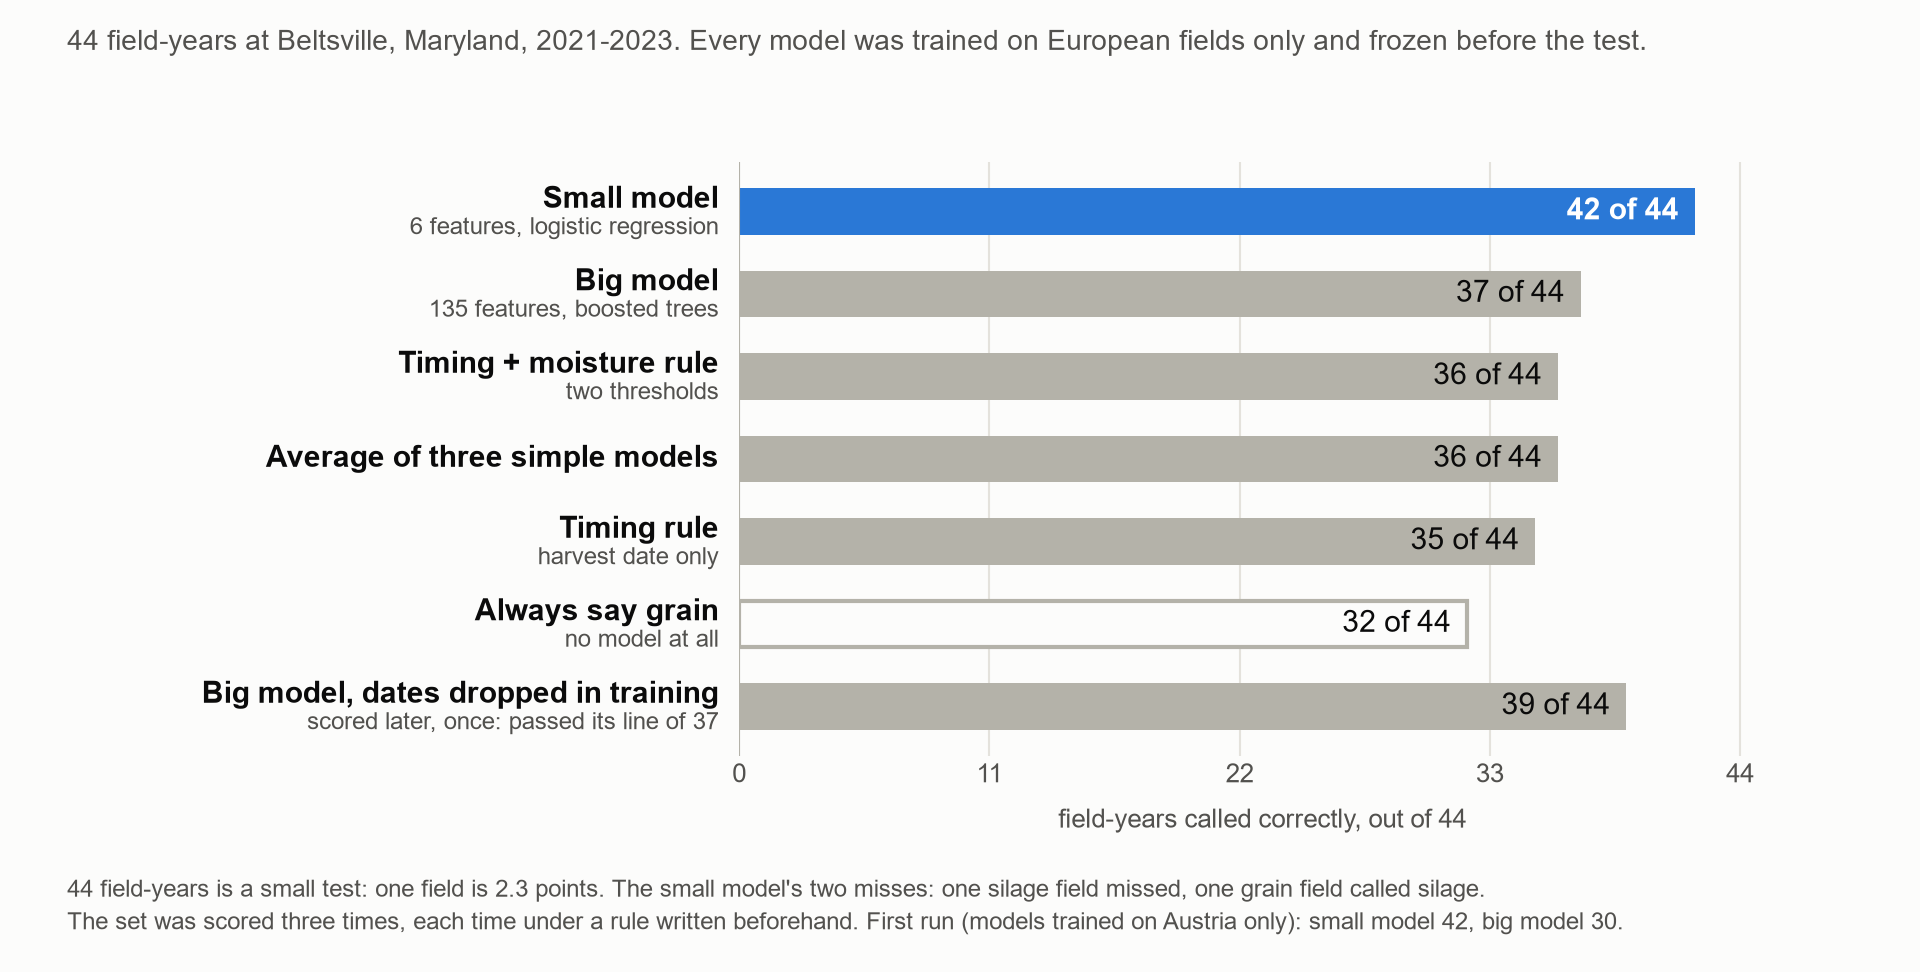
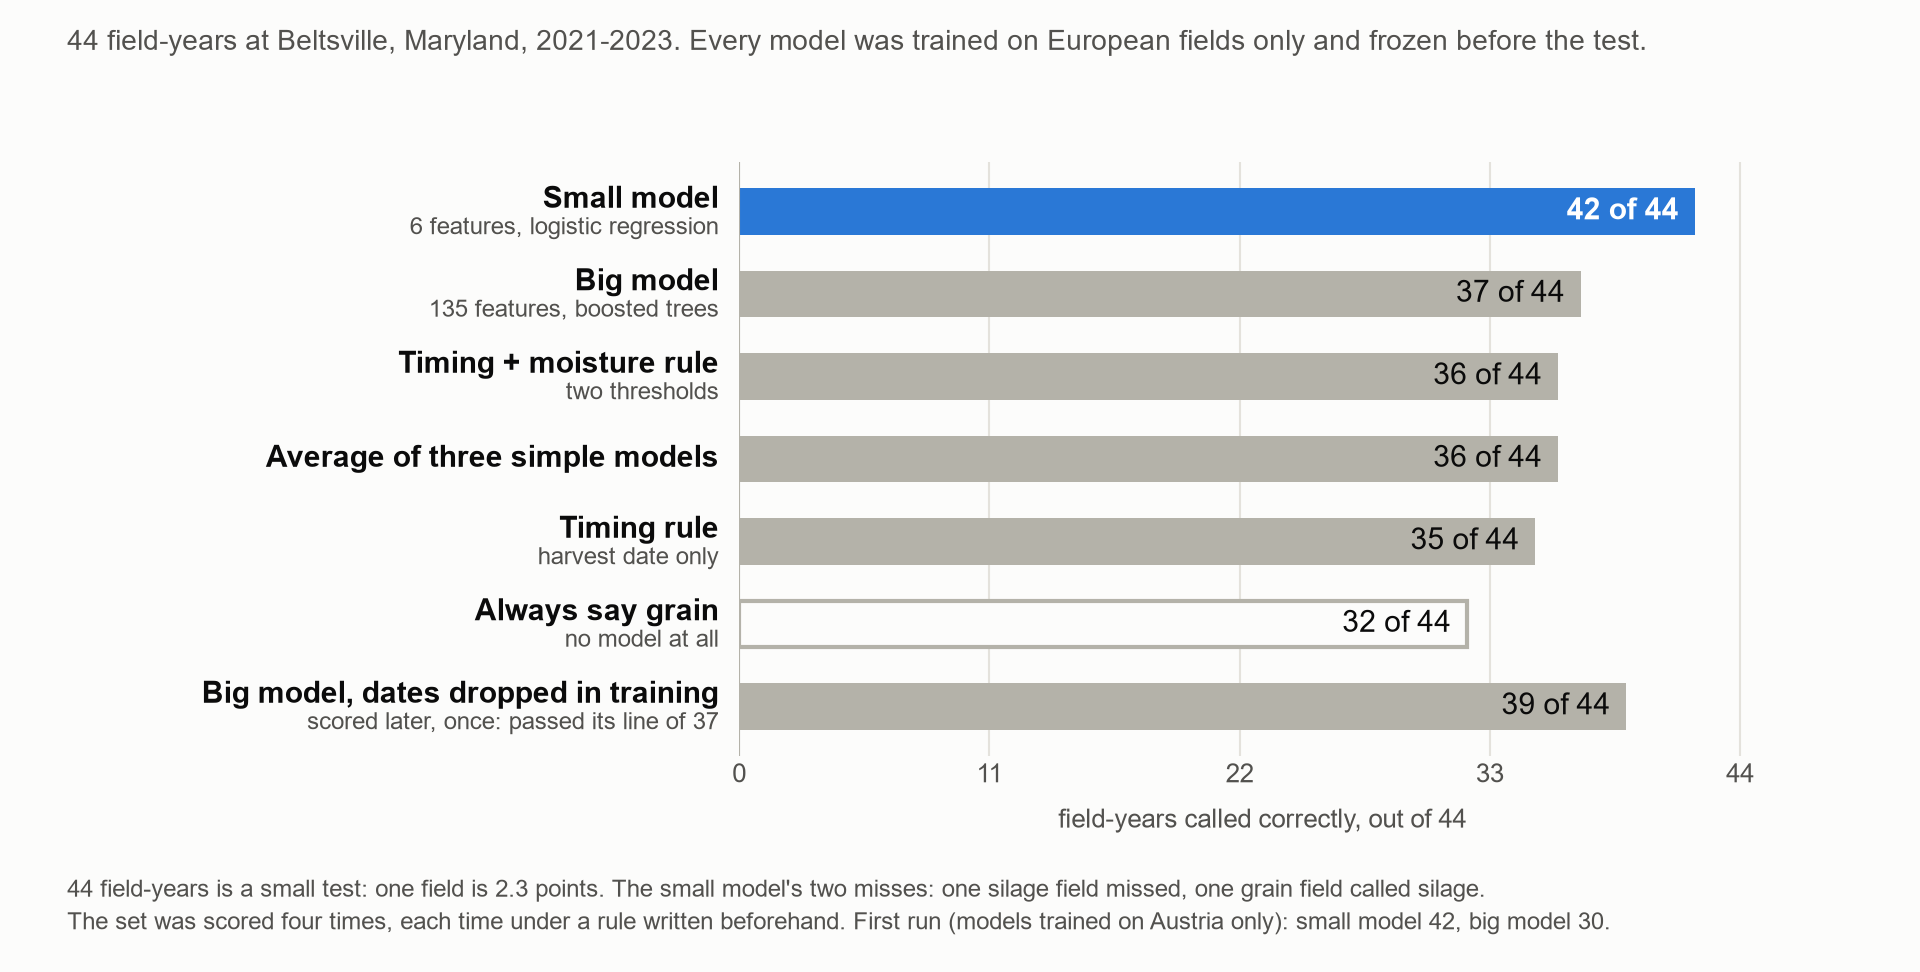
Deck: the sequence model ties the small one on the labelled fields (fourth scoring); why the simple model was kept

Changed region(s): [[0.1562, 0.9259, 0.8438, 0.9568]]

diff --git a/docs/pitch/build_deck.py b/docs/pitch/build_deck.py
@@ -400,7 +400,7 @@ def build(out):
         ("Double-crop corn was not scored",
          "Scored it with the same model, afterwards", "Maryland 2025: 4.75% → 6.7% (USDA 8.9%)"),
         ("The big model did not travel to a new country",
-         "Dropped dates in training; tried a sequence model", "37 → 39 of 44; 0.817 against 0.765 in Europe"),
+         "Dropped dates in training; tried a sequence model", "37 → 39 of 44; the sequence model reaches 42, a tie"),
         ("A northern dairy county reads far too low: Marathon 4% for 50%. A 25-day cloudy spell lay over the silage harvest, "
          "and our \"not seen\" measure did not flag it",
          "Repair the measure so such a county is reported as a range; add a land-use figure beside; add Landsat, a second satellite with a clear picture inside the gap",
@@ -454,19 +454,19 @@ def build(out):
              "Crop history shows the difference; pictures do not.",
           "有些籽粒玉米趁绿早收，在图片上看起来和青贮一样。轮作历史能看出区别，图片看不出。")
 
-    s = new_slide(prs, "Why the simple model won: it travels to a new country")
+    s = new_slide(prs, "Why we kept the simple model: a bigger one only ties it, and the simple one can be explained")
     body_picture(s, "s07_why_simple_won.png")
     notes(s, "In a new country the small model loses almost nothing; the big one loses more. "
-             "Dropping dates in training lifts the big model from 37 to 39 of 44. "
-             "A sequence model does better in Europe, 0.817 against 0.765, but it has not been tested on the US fields.",
-          "换一个国家，小模型几乎不掉精度，大模型掉得多。训练时丢掉一些日期，大模型从 37 升到 39（共 44）。"
-          "序列模型在欧洲更好（0.817 对 0.765），但还没有在美国的地块上检验过。")
+             "A sequence model ties the small one on USDA's labelled fields, 42 of 44, and is no better on the counties. "
+             "We kept the small one because it can be explained in one sentence; the sequence model is steadier when pictures are missing, so it is next.",
+          "换一个国家，小模型几乎不掉精度，大模型掉得多。序列模型在美国农业部带标签的地块上和小模型打平（44 对 42），在各县上也不更好。"
+          "我们留下小模型，因为一句话就能讲清它；序列模型在影像缺失时更稳，所以它是下一个要试的。")
 
     s = new_slide(prs, "Each test had its rule written down before it was run")
     ph = 3.25
     picture(s, "s10_maryland_test.png", MX, 1.4, ph * 1920 / 972)
     text(s, MX + ph * 1920 / 972 + 0.3, 1.6, FULL - ph * 1920 / 972 - 0.3, 3.0, "Every test rule went into a log, with the time, before the "
-         "test ran.\n\nThe 44 labelled fields were scored three times, each time logged, and never used for training.\n\n"
+         "test ran.\n\nThe 44 labelled fields were scored four times, each time logged, and never used for training.\n\n"
          "Failures are shown as failures.", size=15, color=INK, spacing=1.15)
     text(s, MX, 4.8, FULL, 0.35, "From the log: the rule first, then the test", size=14, bold=True, color=INK)
     logged = [("16:12", "16:40", "Queen Anne's", "failed"), ("17:30", "18:11", "Kent", "failed"),
@@ -481,8 +481,8 @@ def build(out):
         text(s, x + 0.25, 5.75, sw - 0.5, 0.35, f"{test_at}  test run once", size=13, color=WHITE if good else INK2)
         text(s, x + 0.2, 6.2, sw - 0.4, 0.6, f"{what}: {result}", size=15, bold=True, color=WHITE if good else INK)
     notes(s, "Every test rule was written in a log before the test ran. "
-             "The 44 labelled fields were scored three times, each time logged.",
-          "每条检验规则都在检验之前写进了日志。44 个带标签的地块一共打了三次分，每次都有记录。")
+             "The 44 labelled fields were scored four times, each time logged.",
+          "每条检验规则都在检验之前写进了日志。44 个带标签的地块一共打了四次分，每次都有记录。")
 
     s = new_slide(prs, "Maryland 2025, the state USDA scores: we read low")
     body_picture(s, "state_2025.png")

diff --git a/docs/pitch/pitch_numbers.py b/docs/pitch/pitch_numbers.py
@@ -196,8 +196,16 @@ TRANSFER_SUMMARY = [
     ("Small model", "6 features, logistic regression", 0.765, 0.005, "42 of 44"),
     ("Big model", "135 features, boosted trees", 0.764, 0.047, "37 of 44"),
     ("Big model, dates dropped", "observation dates removed at random in training", 0.780, 0.035, "39 of 44"),
-    ("Sequence model", "the whole season as a sequence; three seeds", 0.817, 0.031, "not tested"),
+    ("Sequence model", "the whole season as a sequence; three seeds", 0.817, 0.031, "42 of 44"),
 ]
+# The sequence model on the 44 labelled US field-years: 42 right, 11 of 12 silage found, 1 grain
+# called silage; pass mark (40 of 44 and 10 of 12 silage) written first. Log 23:03 (model and
+# mark), 23:39 (result). This was the fourth scoring of that set. On the eight seen counties it is
+# no better than the small model (mean miss 5.7 points for both, Marathon the worst for both), so
+# the small model stays. Where it is steadier: fields whose harvest fell between two pictures far
+# apart ("partly seen"), share called silage, small model / sequence model (log 23:39).
+SEQUENCE_PARTLY_SEEN = [("Queen Anne's", 18.3, 1.7), ("Racine", 35.4, 9.7), ("Kent", 25.5, 12.8)]
+LABELLED_SCORINGS = 4
 # Sequence model, three seeds, each country held out in turn: mean 0.817 (Austria 0.845, France
 # 0.854, Netherlands 0.752), against 0.765 and 0.764 above; loss against in-country 0.042 / 0.024 /
 # 0.026, mean 0.031. From the stream experiment's note of 14 Nov, confirmed by the coordinator (it
@@ -252,10 +260,9 @@ CONFUSION = {"silage_found": 11, "silage_missed": 1, "grain_called_silage": 1, "
 # adding the county up took another 57 seconds.
 RESPONSE_TIME = {"county": "Gratiot", "fields": 3_463, "seconds": 47, "ms_per_field": 14, "adding_up_seconds": 57}
 
-# Why Marathon read low. Source: the coordinator's message of 14 Nov (after 23:15), measured by
-# the modelling work and by the coordinator, who agree; the monthly counts are those of the
-# chart script marathon_gap_chart.py (clear looks per corn field by month, a look counted when at
-# least 60 % of the field is clear). Not yet a row of the access log when this was written.
+# Why Marathon read low. Source: log 23:33 ("Marathon diagnosis and safety net"), which also
+# holds the coordinator's monthly counts of clear looks per corn field (a look counted when at
+# least 60 % of the field is clear), the radar check and the Landsat scenes.
 # One cloudy spell, 20 September to 15 October 2023, lay over the silage harvest: 39 % of
 # Marathon's fields were cut inside that 25-day gap and could not be judged; the fields seen
 # clearly on both sides of the cut are the late harvest, which is grain. The "not seen" measure

diff --git a/docs/pitch/deck_figs.py b/docs/pitch/deck_figs.py
@@ -244,7 +244,7 @@ def transfer_summary():
     fig = body()
     fig.text(D.LEFT, 0.95, "Accuracy (ROC-AUC) with each of three European countries held out of training in turn. "
              "8,000 labelled fields.", fontsize=13.5, color=INK2, va="top")
-    ax = fig.add_axes([0.35, 0.19, 0.42, 0.66])
+    ax = fig.add_axes([0.35, 0.285, 0.42, 0.575])
     D.clean(ax)
     ax.tick_params(axis="x", labelsize=14)
     rows = N.TRANSFER_SUMMARY
@@ -273,8 +273,12 @@ def transfer_summary():
         plt.Line2D([], [], marker="o", ls="", markersize=11, markerfacecolor=BG, markeredgecolor=GREY,
                    markeredgewidth=2.4, label="in a country it trained on"),
     ]
-    fig.legend(handles=handles, loc="lower left", bbox_to_anchor=(0.34, 0.04), ncol=2, frameon=False, fontsize=13.5,
+    fig.legend(handles=handles, loc="lower left", bbox_to_anchor=(0.34, 0.15), ncol=2, frameon=False, fontsize=13.5,
                labelcolor=INK2, handletextpad=0.3, columnspacing=1.6)
+    pairs = "; ".join(f"{name} {small:g}% against {seq:g}%" for name, small, seq in N.SEQUENCE_PARTLY_SEEN)
+    fig.text(D.LEFT, 0.02, "On the counties the two read equally well, so the small model was kept: it can be explained in one sentence.\n"
+             "Where pictures are missing around the harvest, the small model calls too much silage and the sequence model does not:\n"
+             f"{pairs} (share of such fields called silage).", fontsize=12, color=INK2, va="bottom", linespacing=1.4)
     put(fig, "s07_why_simple_won")
 
 

diff --git a/docs/pitch/draw.py b/docs/pitch/draw.py
@@ -229,7 +229,7 @@ def labelled_fields():
     ax.set_xticks([0, 11, 22, 33, 44])
     ax.set_xlabel("field-years called correctly, out of 44", fontsize=12.5, color=INK2, labelpad=10)
     first = N.LABELLED_FIRST_RUN
-    times = "twice" if thinned is None else "three times"
+    times = {2: "twice", 3: "three times", 4: "four times"}[getattr(N, "LABELLED_SCORINGS", 3 if thinned else 2)]
     foot(fig, f"44 field-years is a small test: one field is 2.3 points. The small model's two misses: one silage field missed, one grain field called silage.\n"
               f"The set was scored {times}, each time under a rule written beforehand. First run (models trained on Austria only): "
               f"small model {first['small']}, big model {first['big']}.")

diff --git a/docs/pitch/limits.md b/docs/pitch/limits.md
@@ -5,7 +5,8 @@ the range of USDA's figures (2.4 to 6.4 %). Marathon, the heaviest dairy county 
 where USDA has 32.1 to 49.9 %: 27.8 points low, with 48 % of its fields not judged. The cause,
 as measured afterwards: one cloudy spell of 25 days lay over the silage harvest, so the fields
 seen clearly were the late ones, which are grain, and the "not seen" measure did not flag it. The
-slide deck shows it; the rest of this page does not yet.
+labelled fields were also scored a fourth time (log 23:39): a sequence model got 42 of 44, a tie
+with the small model. The slide deck shows both; the rest of this page does not yet.
 
 "Log HH:MM" is a row of the evaluation access log (`<data>/eval/ACCESS_LOG.md`), named by its time
 on 14 Nov 2026 (Pacific). Everything else is a file in this repository.
